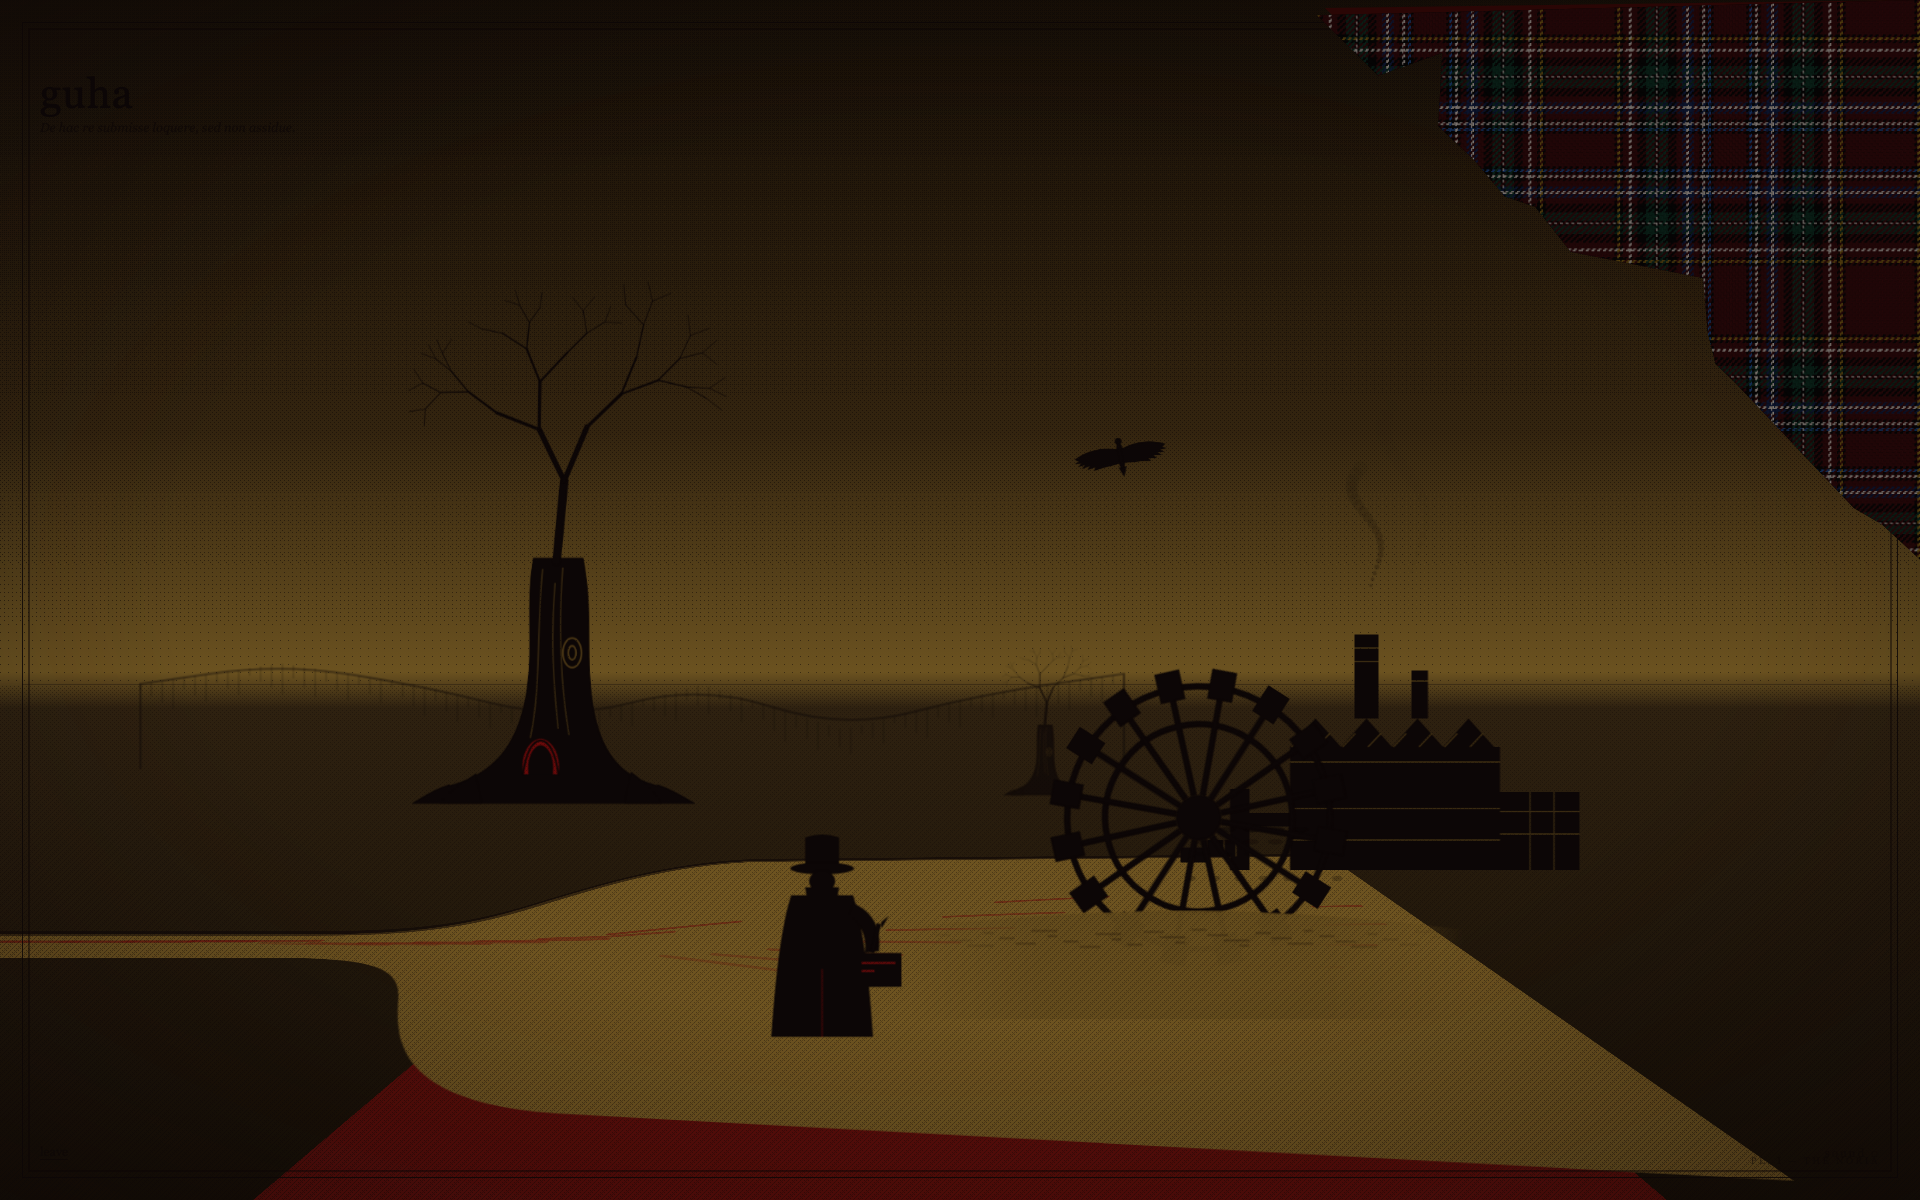
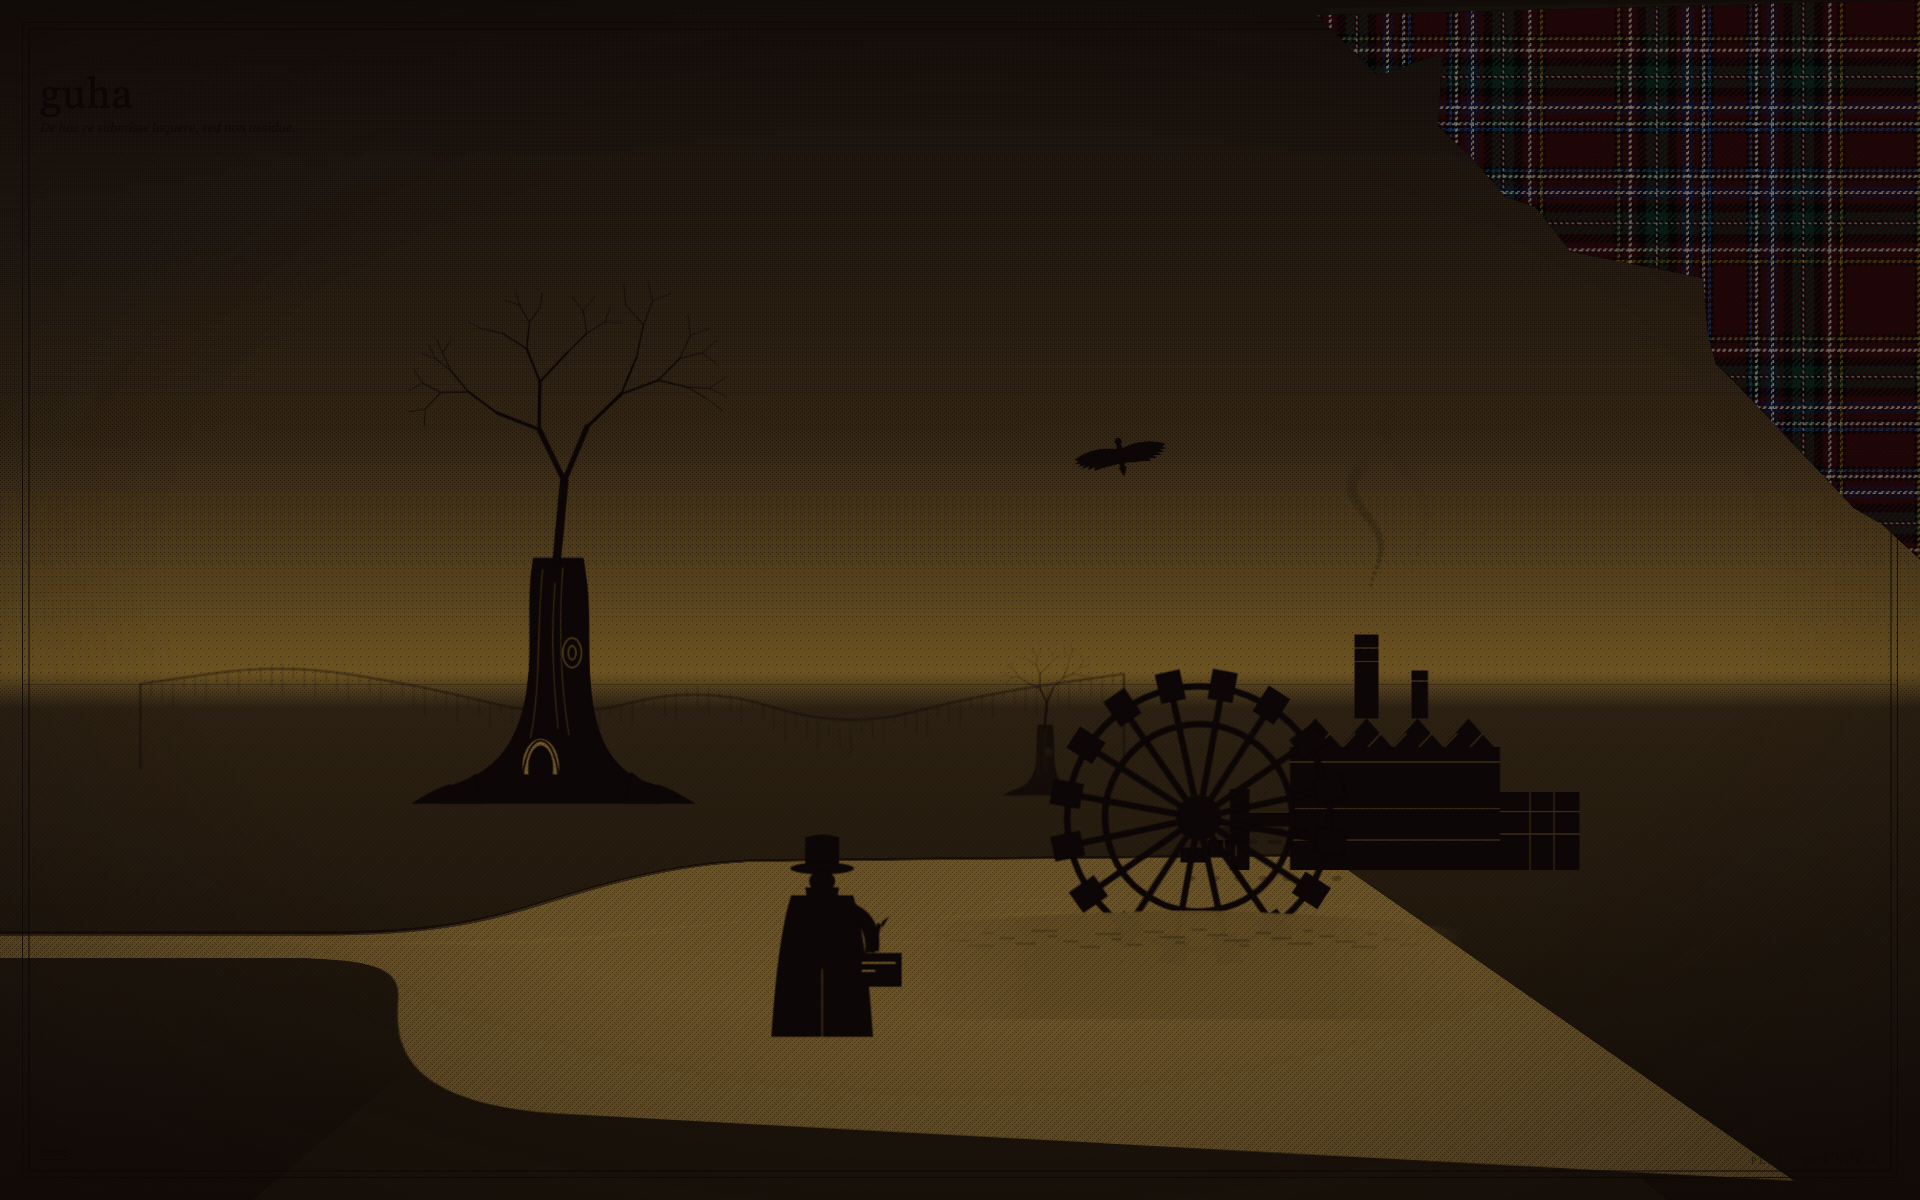
variant(v-brass): map every remaining red literal to brass

Changed region(s): [[0.125, 0.8942, 0.875, 1.0]]

diff --git a/guhub/src/pages/NoriaArt.tsx b/guhub/src/pages/NoriaArt.tsx
@@ -82,7 +82,7 @@ export function Hollow() {
   return (
     <svg className="art artHollow" viewBox="-40 -46 80 56" aria-hidden>
       {/* the opening itself, a hole in the trunk's black: crimson shows through */}
-      <path d="M-22 8 C -26 -18 -12 -36 0 -36 C 12 -36 26 -18 22 8 Z" fill="#6b0a0a" />
+      <path d="M-22 8 C -26 -18 -12 -36 0 -36 C 12 -36 26 -18 22 8 Z" fill="#7a5c22" />
       {/* the dark inside it, so the hole reads as depth not as a cut-out */}
       <path d="M-15 8 C -18 -14 -8 -28 0 -28 C 8 -28 18 -14 15 8 Z" fill="#0c0606" />
       {/* splintered lip */}
@@ -265,7 +265,7 @@ export function River() {
         d="M-40 292 L540 292 C 628 292 668 274 704 218 C 748 150 796 68 900 54 L1600 32 L1600 44 L904 66 C 802 80 754 162 710 230 C 674 286 632 304 540 304 L-40 304 Z"
       />
       {/* current lines, quickening as the channel narrows */}
-      <g stroke="#6b0a0a" fill="none" strokeLinecap="round" strokeWidth="5">
+      <g stroke="#7a5c22" fill="none" strokeLinecap="round" strokeWidth="5">
         {Array.from({ length: 7 }).map((_, i) => (
           <path
             key={i}
@@ -353,13 +353,13 @@ export function Scribe() {
         {/* long coat, narrow at the shoulder, opening toward the hem */}
         <path d="M-31 -134 C -41 -104 -47 -52 -51 8 L 51 8 C 47 -52 41 -104 31 -134 Z" />
         {/* the vent up the back of the coat, cut in ground colour */}
-        <path d="M0 8 L0 -60" stroke="#6b0a0a" strokeWidth="2" fill="none" opacity="0.4" />
+        <path d="M0 8 L0 -60" stroke="#7a5c22" strokeWidth="2" fill="none" opacity="0.4" />
         {/* the writing arm, reaching across to the book */}
         <path d="M31 -126 C 51 -118 60 -100 57 -78 L 43 -76 C 45 -92 39 -106 27 -114 Z" />
       </g>
       <g className="scribeHand">
         <rect x="34" y="-76" width="46" height="34" fill="#0c0606" />
-        <g className="scribeWriting" stroke="#6b0a0a" strokeWidth="2" fill="none">
+        <g className="scribeWriting" stroke="#7a5c22" strokeWidth="2" fill="none">
           <path d="M40 -66 L74 -66" />
           <path d="M40 -58 L74 -58" />
           <path d="M40 -50 L66 -50" />
@@ -385,7 +385,7 @@ export function Squirrel() {
           <ellipse cx="-18" cy="-20" rx="12" ry="10.5" />
           <path d="M-28 -22 L -38 -18 L -28 -14 Z" />
           <path d="M-14 -30 C -18 -38 -8 -40 -8 -32 Z" />
-          <circle cx="-22" cy="-22" r="1.6" fill="#6b0a0a" />
+          <circle cx="-22" cy="-22" r="1.6" fill="#7a5c22" />
           <path d="M-22 -10 L -30 -6 L -26 -3 L -18 -7 Z" />
         </g>
         <ellipse cx="-32" cy="-6" rx="5" ry="6" />
@@ -408,7 +408,7 @@ export function TrunkDetail() {
   }));
   return (
     <svg className="art artTrunkDetail" viewBox="-130 -300 260 380" aria-hidden>
-      <g stroke="#6b0a0a" fill="none" strokeLinecap="round" opacity="0.8">
+      <g stroke="#7a5c22" fill="none" strokeLinecap="round" opacity="0.8">
         {hatch.map((h, i) => (
           <path key={i} d={`M${-18 + h.bow} ${h.y} q 7 5 ${h.len * 0.5} 1`} strokeWidth={i % 4 === 0 ? 2.4 : 1.2} />
         ))}
@@ -432,7 +432,7 @@ export function Beetle() {
       <g fill="#0c0606">
         <ellipse cx="0" cy="0" rx="14" ry="8.5" />
         <ellipse cx="-13" cy="0" rx="5" ry="4.5" />
-        <rect x="-1.2" y="-8" width="2.4" height="16" fill="#6b0a0a" />
+        <rect x="-1.2" y="-8" width="2.4" height="16" fill="#7a5c22" />
       </g>
       <g stroke="#0c0606" strokeWidth="1.6" strokeLinecap="round" className="beetleLegs">
         <path d="M-6 6 L -10 12 M0 8 L 0 14 M6 6 L 10 12" />
@@ -482,7 +482,7 @@ export function FactoryGuts() {
             <rect key={i} x="-4" y="-48" width="8" height="13" transform={`rotate(${(i / 14) * 360})`} />
           ))}
           <circle r="37" />
-          <circle r="9" fill="#6b0a0a" />
+          <circle r="9" fill="#7a5c22" />
         </g>
       </g>
       <g className="gutsGearB" transform="translate(-16 -20)">
@@ -491,7 +491,7 @@ export function FactoryGuts() {
             <rect key={i} x="-3.4" y="-34" width="6.8" height="11" transform={`rotate(${(i / 10) * 360})`} />
           ))}
           <circle r="25" />
-          <circle r="7" fill="#6b0a0a" />
+          <circle r="7" fill="#7a5c22" />
         </g>
       </g>
       {/* piston driven off the small gear */}
@@ -505,7 +505,7 @@ export function FactoryGuts() {
         <path d="M22 44 L 78 44 L 70 96 L 30 96 Z" />
         <path d="M96 44 L 152 44 L 144 96 L 104 96 Z" />
       </g>
-      <g fill="#6b0a0a">
+      <g fill="#7a5c22">
         <rect className="gutsLevelA" x="30" y="58" width="40" height="30" />
         <rect className="gutsLevelB" x="104" y="66" width="40" height="22" />
       </g>

diff --git a/guhub/src/pages/Noria.css b/guhub/src/pages/Noria.css
@@ -87,7 +87,7 @@
 .groundFace {
   width: 4200px;
   height: 2800px;
-  background: #5a0d09;
+  background: #1d1408;
 }
 
 .riverPlane { z-index: 0; }
@@ -567,7 +567,7 @@
 
 .artColossus { width: 400px; height: 760px; }
 
-.submerged { color: #4a0d0a; opacity: 0.7; }
+.submerged { color: #221806; opacity: 0.7; }
 .artDeepMass { width: 600px; height: 90px; }
 
 /* it surfaces, holds, and is gone before you are sure */
@@ -768,7 +768,7 @@
   inset: 0;
 }
 
-.biteEdge { background: #2a0605; }
+.biteEdge { background: #14100a; }
 
 .biteCloth {
   background-color: #050404;
